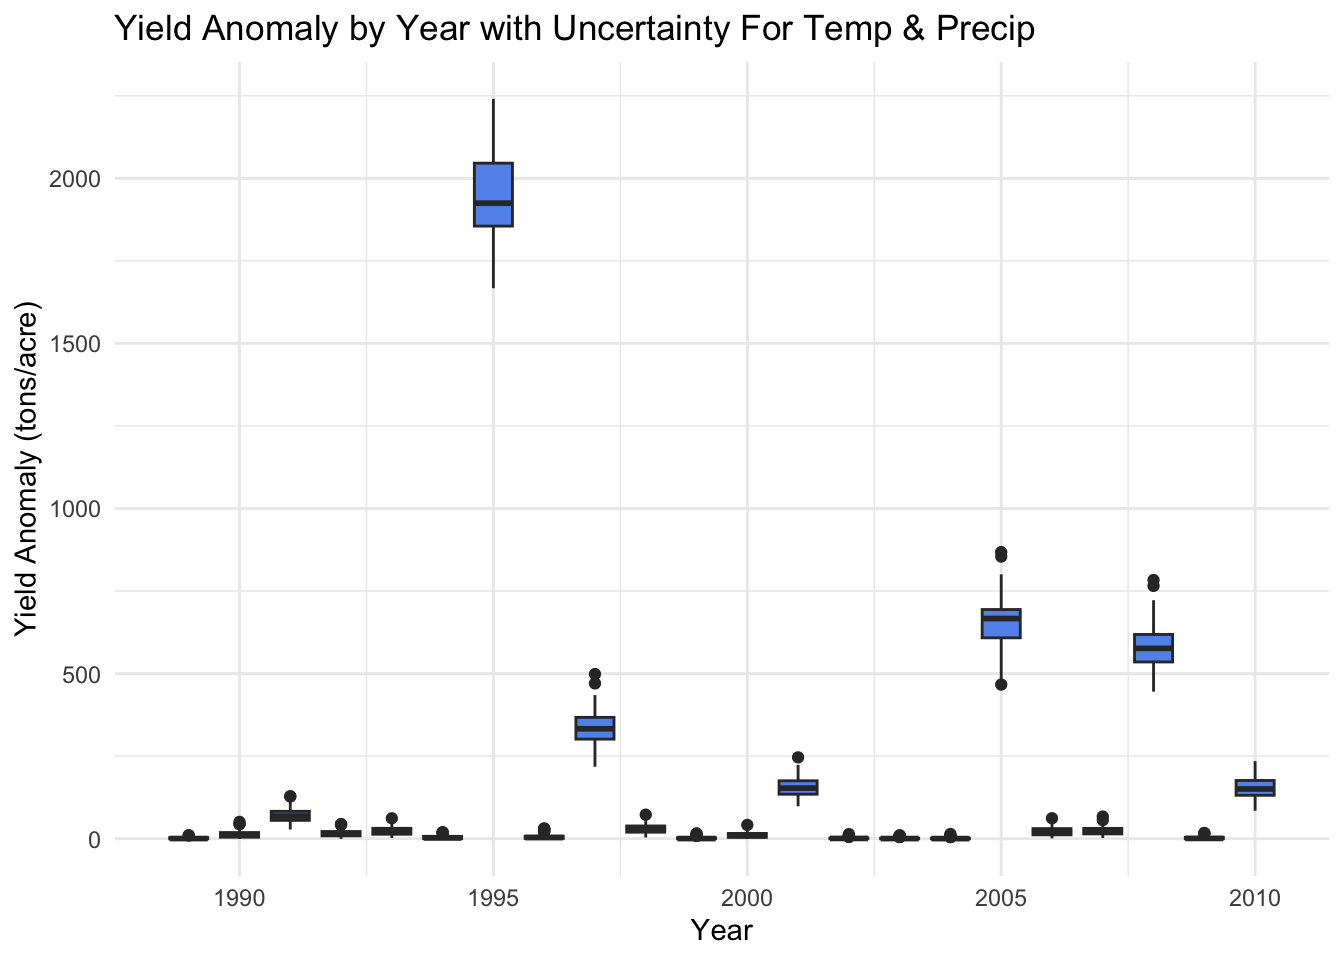
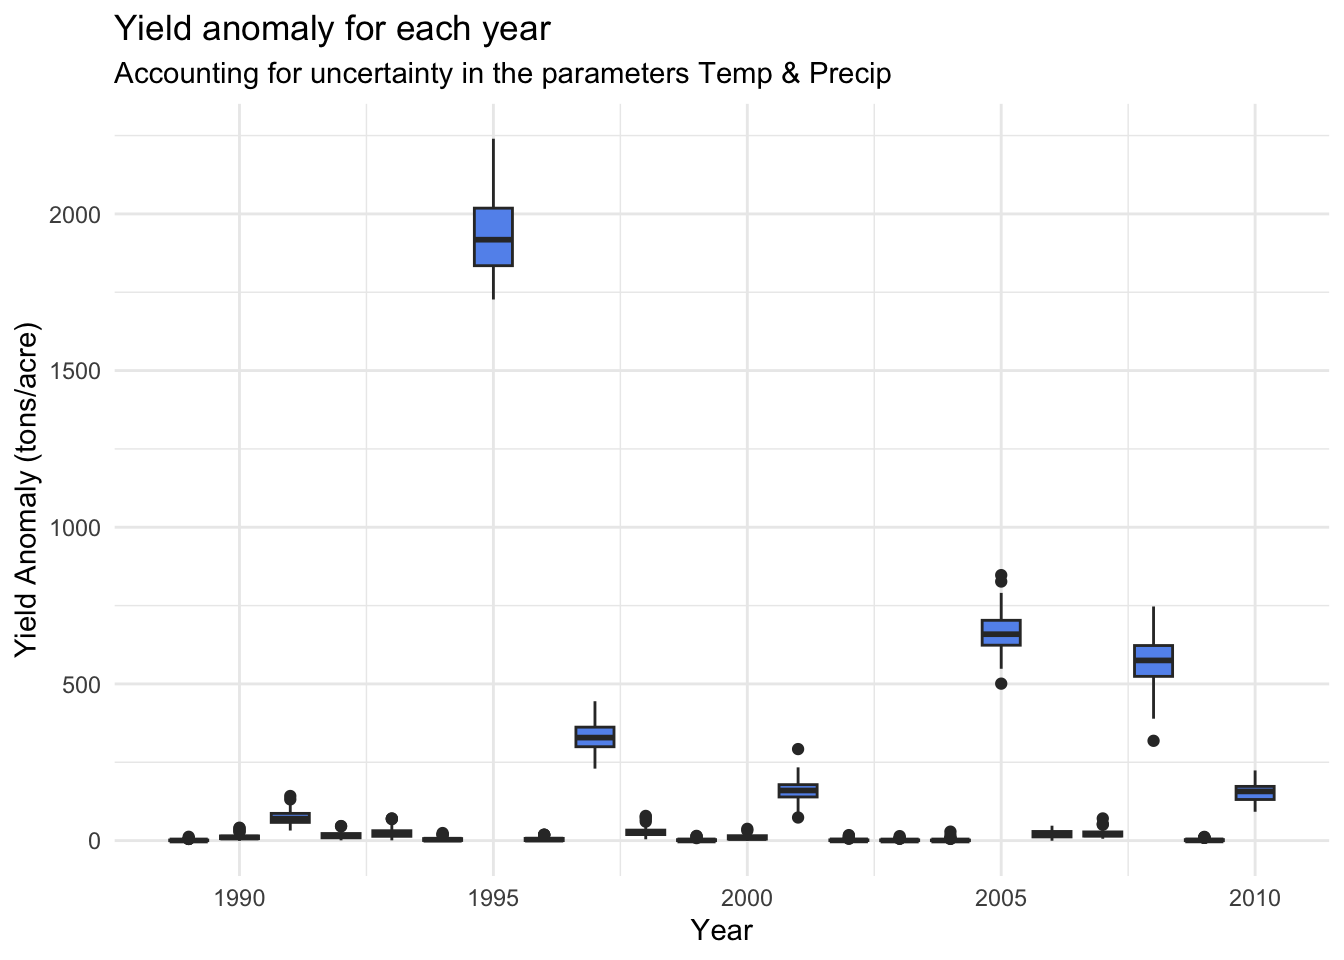
complete hw3

diff --git a/HW3/HW3-almond-profit.html b/HW3/HW3-almond-profit.html
@@ -110,7 +110,7 @@ pre > code.sourceCode > span > a:first-child::before { text-decoration: underlin
 <div class="sourceCode cell-code" id="cb1"><pre class="sourceCode r code-with-copy"><code class="sourceCode r"><span id="cb1-1"><a href="#cb1-1" aria-hidden="true" tabindex="-1"></a><span class="co"># Load libraries</span></span>
 <span id="cb1-2"><a href="#cb1-2" aria-hidden="true" tabindex="-1"></a><span class="fu">library</span>(here)</span></code><button title="Copy to Clipboard" class="code-copy-button"><i class="bi"></i></button></pre></div>
 <div class="cell-output cell-output-stderr">
-<pre><code>here() starts at /Users/nicolepepper/Documents/MEDS/EDS-230/EDS-230-HWs</code></pre>
+<pre><code>here() starts at /Users/nicolepepper/Documents/MEDS/EDS-230/eds230-hw</code></pre>
 </div>
 <div class="sourceCode cell-code" id="cb3"><pre class="sourceCode r code-with-copy"><code class="sourceCode r"><span id="cb3-1"><a href="#cb3-1" aria-hidden="true" tabindex="-1"></a><span class="fu">library</span>(tidyverse)</span></code><button title="Copy to Clipboard" class="code-copy-button"><i class="bi"></i></button></pre></div>
 <div class="cell-output cell-output-stderr">
@@ -131,7 +131,7 @@ pre > code.sourceCode > span > a:first-child::before { text-decoration: underlin
 </div>
 <div class="cell">
 <div class="sourceCode cell-code" id="cb7"><pre class="sourceCode r code-with-copy"><code class="sourceCode r"><span id="cb7-1"><a href="#cb7-1" aria-hidden="true" tabindex="-1"></a><span class="co"># Read in climate data</span></span>
-<span id="cb7-2"><a href="#cb7-2" aria-hidden="true" tabindex="-1"></a>clim_data <span class="ot">&lt;-</span> <span class="fu">read.table</span>(<span class="fu">here</span>(<span class="st">"HW2"</span>,<span class="st">"data"</span>,<span class="st">"clim.txt"</span>), <span class="at">header =</span> <span class="cn">TRUE</span>)</span></code><button title="Copy to Clipboard" class="code-copy-button"><i class="bi"></i></button></pre></div>
+<span id="cb7-2"><a href="#cb7-2" aria-hidden="true" tabindex="-1"></a>clim_data <span class="ot">&lt;-</span> <span class="fu">read.table</span>(<span class="fu">here</span>(<span class="st">"HW3"</span>,<span class="st">"data"</span>,<span class="st">"clim.txt"</span>), <span class="at">header =</span> <span class="cn">TRUE</span>)</span></code><button title="Copy to Clipboard" class="code-copy-button"><i class="bi"></i></button></pre></div>
 </div>
 <div class="cell">
 <div class="sourceCode cell-code" id="cb8"><pre class="sourceCode r code-with-copy"><code class="sourceCode r"><span id="cb8-1"><a href="#cb8-1" aria-hidden="true" tabindex="-1"></a><span class="co"># ---- Prep clim data for model ----</span></span>
@@ -247,10 +247,11 @@ pre > code.sourceCode > span > a:first-child::before { text-decoration: underlin
 <span id="cb14-19"><a href="#cb14-19" aria-hidden="true" tabindex="-1"></a><span class="fu">ggplot</span>(yield_uncertainty, <span class="fu">aes</span>(<span class="at">x =</span> year, <span class="at">y =</span> yield_anomaly, <span class="at">group =</span> year)) <span class="sc">+</span></span>
 <span id="cb14-20"><a href="#cb14-20" aria-hidden="true" tabindex="-1"></a>  <span class="fu">geom_boxplot</span>(<span class="at">fill =</span> <span class="st">"cornflowerblue"</span>) <span class="sc">+</span></span>
 <span id="cb14-21"><a href="#cb14-21" aria-hidden="true" tabindex="-1"></a>  <span class="fu">labs</span>(</span>
-<span id="cb14-22"><a href="#cb14-22" aria-hidden="true" tabindex="-1"></a>    <span class="at">title =</span> <span class="st">"Yield Anomaly by Year with Uncertainty For Temp &amp; Precip"</span>,</span>
-<span id="cb14-23"><a href="#cb14-23" aria-hidden="true" tabindex="-1"></a>    <span class="at">x =</span> <span class="st">"Year"</span>,</span>
-<span id="cb14-24"><a href="#cb14-24" aria-hidden="true" tabindex="-1"></a>    <span class="at">y =</span> <span class="st">"Yield Anomaly (tons/acre)"</span>) <span class="sc">+</span></span>
-<span id="cb14-25"><a href="#cb14-25" aria-hidden="true" tabindex="-1"></a>  <span class="fu">theme_minimal</span>()</span></code><button title="Copy to Clipboard" class="code-copy-button"><i class="bi"></i></button></pre></div>
+<span id="cb14-22"><a href="#cb14-22" aria-hidden="true" tabindex="-1"></a>    <span class="at">title =</span> <span class="st">"Yield anomaly for each year"</span>,</span>
+<span id="cb14-23"><a href="#cb14-23" aria-hidden="true" tabindex="-1"></a>    <span class="at">subtitle =</span> <span class="st">"Accounting for uncertainty in the parameters Temp &amp; Precip"</span>,</span>
+<span id="cb14-24"><a href="#cb14-24" aria-hidden="true" tabindex="-1"></a>    <span class="at">x =</span> <span class="st">"Year"</span>,</span>
+<span id="cb14-25"><a href="#cb14-25" aria-hidden="true" tabindex="-1"></a>    <span class="at">y =</span> <span class="st">"Yield Anomaly (tons/acre)"</span>) <span class="sc">+</span></span>
+<span id="cb14-26"><a href="#cb14-26" aria-hidden="true" tabindex="-1"></a>  <span class="fu">theme_minimal</span>()</span></code><button title="Copy to Clipboard" class="code-copy-button"><i class="bi"></i></button></pre></div>
 <div class="cell-output-display">
 <div>
 <figure class="figure">
@@ -339,7 +340,11 @@ pre > code.sourceCode > span > a:first-child::before { text-decoration: underlin
 </section>
 <section id="write-a-short-paragraph-in-a-quatro-document-to-summarize-you-interpretation-of-your-model-results-e.g-what-do-take-away-from-your-model-and-sensitivity-analysis" class="level3">
 <h3 class="anchored" data-anchor-id="write-a-short-paragraph-in-a-quatro-document-to-summarize-you-interpretation-of-your-model-results-e.g-what-do-take-away-from-your-model-and-sensitivity-analysis">5. Write a short paragraph (in a Quatro document) to summarize you interpretation of your model results (e.g what do ‘take away’ from your model and sensitivity analysis)</h3>
-<p>Variations in temperature and precipitation can have significant impacts on model performance. Yield anomaly seems to decrease as temperature increases Yield anomaly seems to increase as precipitation increases</p>
+<ul>
+<li>Variations in temperature and precipitation can have significant impacts on model performance.</li>
+<li>Yield anomaly seems to decrease as temperature increases.</li>
+<li>Yield anomaly seems to increase as precipitation increases.</li>
+</ul>
 </section>
 
 </main>
